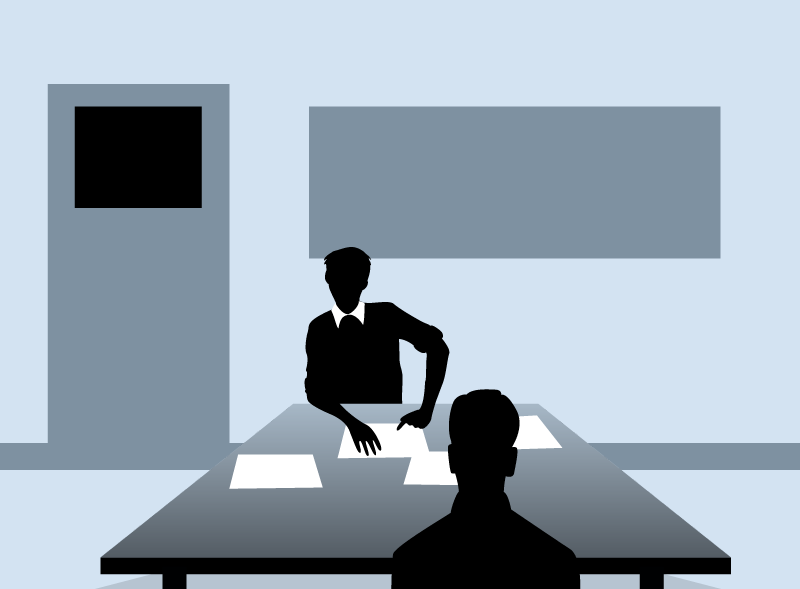
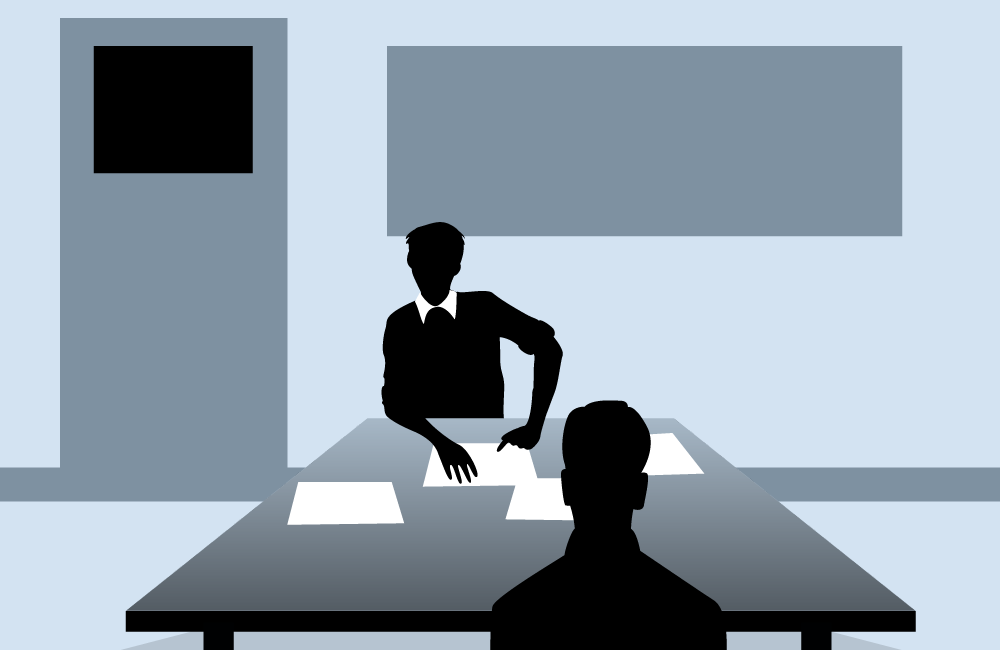
changing css + images to good size

diff --git a/css/game.css b/css/game.css
@@ -1,5 +1,5 @@
 body{
-	background: white;
+	background: black;
 	overflow: hidden;
 	margin: 0;
 
@@ -63,9 +63,9 @@ body{
 
 #game_container{
 	background: #000;
-	width:100%;
+	width:1000px;
 
-	height:100%;
+	height:750px;
 	/*max-height:640px;*/
 
 	position: absolute;
@@ -386,9 +386,8 @@ body{
 #game #dialogue{
 	position: absolute;
 	top:20px;
-	width:80%;
+	width:100%;
 	cursor: default;
-	padding-left: 140px;
 
 	-webkit-transition: top 0.1s ease-in-out;
 	-moz-transition: top 0.1s ease-in-out;

diff --git a/index.html b/index.html
@@ -36,7 +36,7 @@
     <div id="game_container">
       <div id="game" screen="loading">
         
-        <div id="background" height="352" width="470"></div>
+        <div id="background"></div>
         <div id="dialogue"></div>
         <div id="choices"></div>
         <div id="waiting_for_other" style="visibility: hidden"></div>

diff --git a/js/config/art.js b/js/config/art.js
@@ -1,5 +1,5 @@
 ////////// MENU //////////
-Background("starting_room", "/img/backgrounds/starting_room.gif");
+Background("starting_room", "/img/backgrounds/intro.png");
 
 ////////// UTILS //////////
 //Background("black", "/img/backgrounds/black.png");
